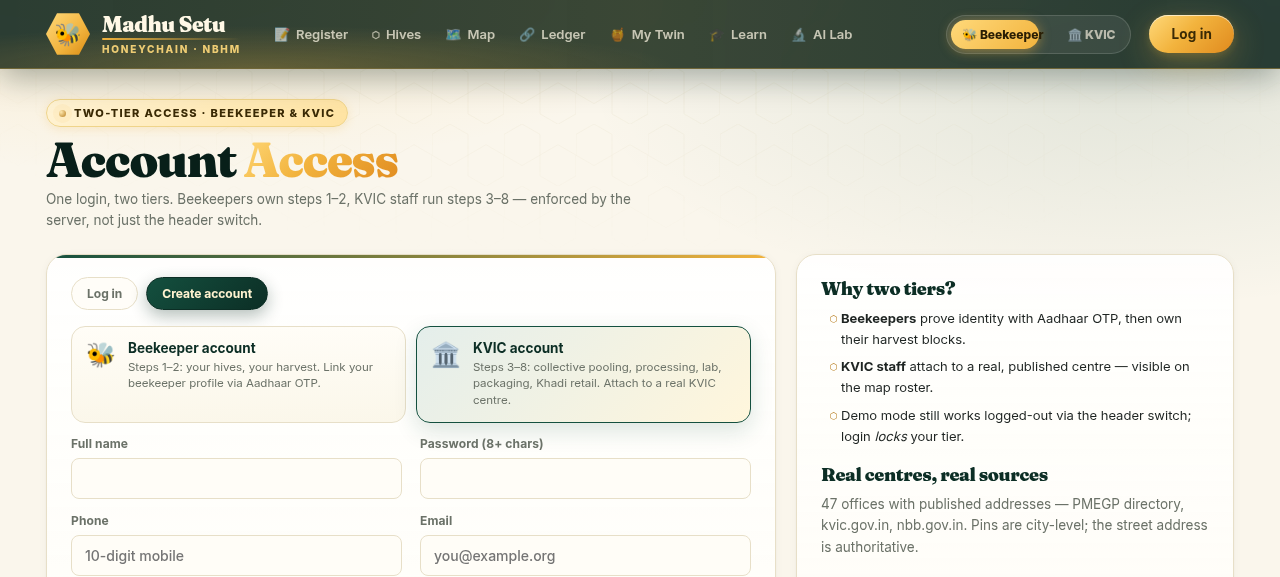
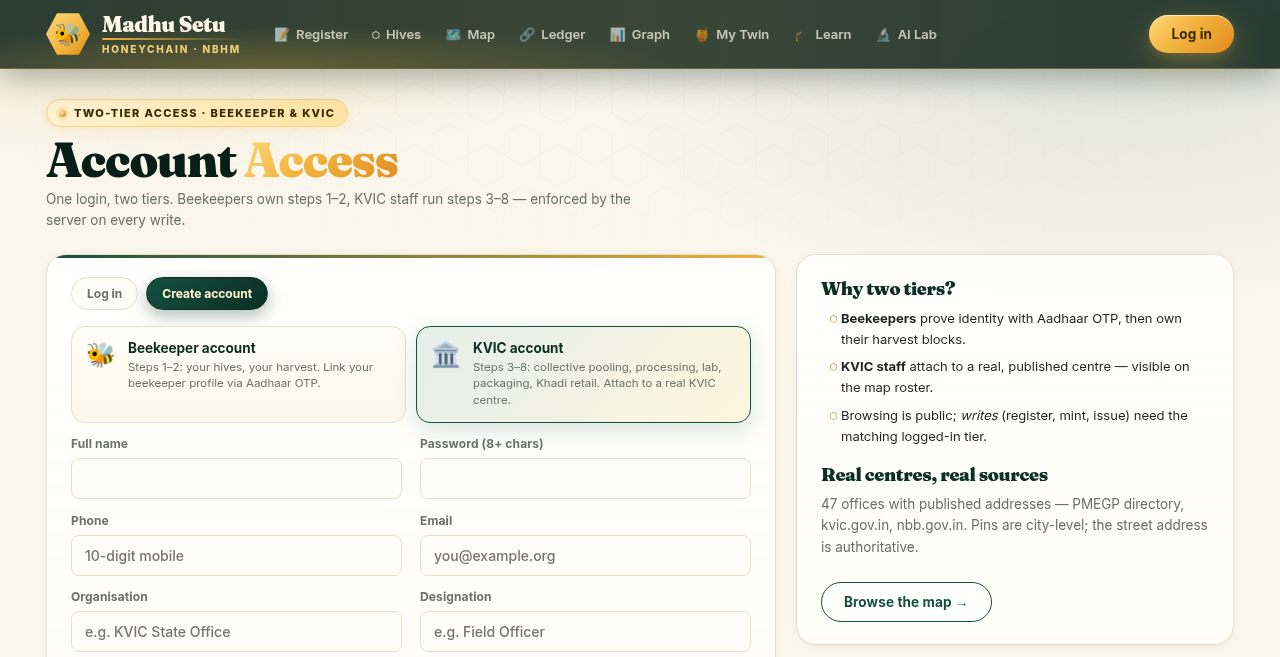
Order fixed, added graphs, two tier login

diff --git a/beehive-monitor/backend/controllers/blockchainController.js b/beehive-monitor/backend/controllers/blockchainController.js
@@ -10,13 +10,13 @@ const STAGE_META = {
   beekeeper_registration: { label: "Beekeeper Registration", step: 1, desc: "Beekeeper enrolled — record pinned (Pinata / Mongo) and appended", icon: "🐝" },
   honey_extraction:        { label: "Honey Extraction", step: 2, desc: "Farmer harvests honey — hive, weight, flower source", icon: "🍯" },
   collection:             { label: "Collection Phase 1", step: 3, desc: "Collector, quantity, flower type, destination lab / smart van", icon: "🤝" },
-  pooled:                 { label: "Collective Pool", step: 2, desc: "Optional many-farmer collection lot", icon: "🔗" },
-  transport:              { label: "Transport", step: 3, desc: "Truck to processing plant", icon: "🚚" },
-  processing:             { label: "Processing & QC", step: 4, desc: "Filtered / clarified / pasteurized + QA tester scans prev QR", icon: "🧪" },
-  lab_certified:          { label: "Lab Report", step: 4, desc: "KVIC / lab form + moisture/purity — QR appended", icon: "🔬" },
-  packaging:              { label: "Packaging", step: 5, desc: "Khadi village institutions print & stick jar QR (public key)", icon: "🏷" },
-  distribution:           { label: "Distribution", step: 6, desc: "Which lot went to which Khadi / KVIC store", icon: "📦" },
-  retail:                 { label: "Retail sale", step: 7, desc: "Bill issues one-time private key; chain freezes", icon: "🏪" },
+  pooled:                 { label: "Collective Pool", step: 3, desc: "Optional many-farmer collection lot", icon: "🔗" },
+  transport:              { label: "Transport", step: 4, desc: "Truck to processing plant", icon: "🚚" },
+  processing:             { label: "Processing & QC", step: 5, desc: "Filtered / clarified / pasteurized + QA tester scans prev QR", icon: "🧪" },
+  lab_certified:          { label: "Lab Report", step: 5, desc: "KVIC / lab form + moisture/purity — QR appended", icon: "🔬" },
+  packaging:              { label: "Packaging", step: 6, desc: "Khadi village institutions print & stick jar QR (public key)", icon: "🏷" },
+  distribution:           { label: "Distribution", step: 7, desc: "Which lot went to which Khadi / KVIC store", icon: "📦" },
+  retail:                 { label: "Retail sale", step: 8, desc: "Bill issues one-time private key; chain freezes", icon: "🏪" },
 };
 
 function stageMeta(stage) {

diff --git a/beehive-monitor/frontend/src/pages/Register.jsx b/beehive-monitor/frontend/src/pages/Register.jsx
@@ -332,9 +332,6 @@ export default function Register() {
             <div className="form-footer">
               {status === "success" && <span className="form-msg success">Registered successfully.</span>}
               {status === "error" && <span className="form-msg error">{errorMsg}</span>}
-              {!user && status !== "saving" && (
-                <Link className="btn btn-honey" to="/account">Log in / create account to submit</Link>
-              )}
               <button type="submit" className="btn btn-primary" disabled={status === "saving"}>
                 {status === "saving" ? "Saving..." : "Submit Registration"}
               </button>
@@ -367,7 +364,7 @@ export default function Register() {
                     </div>
                     <pre className="payload-pre" style={{ marginTop: 12 }}>{JSON.stringify(genesis.data || {}, null, 2)}</pre>
                     <div className="genesis-actions">
-                      <Link className="btn btn-primary" to={`/verify/${genesis.hash}?s=${genesis.scan_secret}`}>Verify genesis</Link>
+                      <Link className="btn btn-primary" to={`/verify/${genesis.hash}?s=${encodeURIComponent(genesis.scan_secret || "")}`}>Verify genesis</Link>
                       <Link className="btn btn-outline" to="/ledger">Open ledger</Link>
                       <Link className="btn btn-outline" to={`/twin?id=${genesis.hash}`}>Track my twin →</Link>
                     </div>
@@ -375,7 +372,7 @@ export default function Register() {
                   </div>
                   <div className="genesis-qr">
                     <div className="qr-box">
-                      <QRCodeSVG value={`${window.location.origin}/verify/${genesis.hash}?s=${genesis.scan_secret}`} size={148} level="M" />
+                      <QRCodeSVG value={`${window.location.origin}/verify/${genesis.hash}?s=${encodeURIComponent(genesis.scan_secret || "")}`} size={148} level="M" />
                     </div>
                     <div className="qr-caption">Beekeeper QR — scan to create extraction / pooled batch</div>
                     <div className="genesis-flow">

diff --git a/beehive-monitor/frontend/src/pages/FarmerTwin.jsx b/beehive-monitor/frontend/src/pages/FarmerTwin.jsx
@@ -156,9 +156,9 @@ export default function FarmerTwin(){
               {current && (
                 <div className="twin-qr">
                   <div className="qr-box">
-                    <QRCodeSVG value={`${window.location.origin}/verify/${current.hash}?s=${current.scan_secret}`} size={110} />
+                    <QRCodeSVG value={`${window.location.origin}/verify/${current.hash}?s=${encodeURIComponent(current.scan_secret || "")}`} size={110} />
                   </div>
-                  <Link className="btn btn-outline" to={`/verify/${current.hash}?s=${current.scan_secret}`} style={{marginTop:8}}>Verify jar</Link>
+                  <Link className="btn btn-outline" to={`/verify/${current.hash}?s=${encodeURIComponent(current.scan_secret || "")}`} style={{marginTop:8}}>Verify jar</Link>
                 </div>
               )}
             </div>

diff --git a/beehive-monitor/backend/models/LedgerBlock.js b/beehive-monitor/backend/models/LedgerBlock.js
@@ -9,10 +9,10 @@ const STAGES = [
   "pooled",                 // 3-collapsed — collective batches N farmer blocks converge (DAG)
   "transport",              // 4 — truck to processing plant
   "processing",             // 5 — filtered/clarified/pasteurized + QA tester scans prev QR
+  "lab_certified",          // 5b — lab adds his block by scanning (CA, cert hash) — can interleave before retail
   "packaging",              // 6 — food-grade pack + label (FSSAI, batch no, nutrition)
   "distribution",           // 7 — marketing & distribution to outlets
   "retail",                 // 8 — Khadi India / outlet — freeze point
-  "lab_certified",          // 5b — lab adds his block by scanning (CA, cert hash) — can interleave before retail
 ];
 
 const LedgerBlockSchema = new mongoose.Schema(

diff --git a/beehive-monitor/backend/controllers/rtiController.js b/beehive-monitor/backend/controllers/rtiController.js
@@ -7,6 +7,13 @@ async function createRti(req, res) {
     const qid = (beekeeperId || hash || "").trim();
     if (!qid) return res.status(400).json({ success: false, error: "beekeeperId or genesis hash required" });
     if (!question) return res.status(400).json({ success: false, error: "question required" });
+    // Cap free text so one filing can't bloat the JSON store / DB.
+    if (String(question).length > 2000) {
+      return res.status(400).json({ success: false, error: "question is too long — keep it under 2000 characters." });
+    }
+    if (subject && String(subject).length > 200) {
+      return res.status(400).json({ success: false, error: "subject is too long — keep it under 200 characters." });
+    }
 
     req.params = { ...(req.params || {}), id: qid };
     const fakeRes = {

diff --git a/beehive-monitor/backend/middleware/auth.js b/beehive-monitor/backend/middleware/auth.js
@@ -1,5 +1,7 @@
-// Two tier auth: beekeeper vs kvic
-// Determined from header x-role (beekeeper | kvic). No JWT for MVP — matches image institutions.
+// Two-tier auth: beekeeper vs kvic. Role comes ONLY from a verified login JWT
+// (authenticate/optionalAuth set req.authUser). The `x-role` header / `?role=`
+// query survive purely as a display hint for public reads and grant nothing —
+// every write route requires `authenticate`.
 // From Honey Workflow supporting institutions:
 // - BEEKEEPER tier: steps 1 Beekeeper Management + 2 Honey Extraction (owns hive, harvest)
 // - KVIC tier: steps 3 Collection (Cooperative/NGO/Trader) + 4 Transport + 5 Processing & QC

diff --git a/beehive-monitor/frontend/src/pages/Verify.jsx b/beehive-monitor/frontend/src/pages/Verify.jsx
@@ -227,7 +227,7 @@ export default function Verify() {
 
               <div className="verify-qr">
                 <div className="qr-box">
-                  <QRCodeSVG value={`${window.location.origin}/verify/${block.hash}${block.scan_secret ? `?s=${block.scan_secret}` : token ? `?s=${token}` : ""}`} size={130} />
+                  <QRCodeSVG value={`${window.location.origin}/verify/${block.hash}${block.scan_secret ? `?s=${encodeURIComponent(block.scan_secret)}` : token ? `?s=${encodeURIComponent(token)}` : ""}`} size={130} />
                 </div>
                 <div className="qr-caption">Present this QR at next hop to append</div>
               </div>

diff --git a/beehive-monitor/frontend/src/App.jsx b/beehive-monitor/frontend/src/App.jsx
@@ -22,7 +22,8 @@ export default function App() {
           <Route path="/learn" element={<Learn />} />
           <Route path="/diagnose" element={<DiseaseDetection />} />
           <Route path="/ledger" element={<Ledger />} />
-          <Route path="/graph" element={<Graph />} />          <Route path="/verify/:hash" element={<Verify />} />
+          <Route path="/graph" element={<Graph />} />
+          <Route path="/verify/:hash" element={<Verify />} />
           <Route path="/verify" element={<Verify />} />
           <Route path="/twin" element={<FarmerTwin />} />
           <Route path="/track" element={<FarmerTwin />} />

diff --git a/beehive-monitor/frontend/src/pages/LedgerGraph.jsx b/beehive-monitor/frontend/src/pages/LedgerGraph.jsx
@@ -108,7 +108,7 @@ export default function LedgerGraph({ blocks = [], selected = null, onSelect = n
         <div>
           <div className="graph-title">{title}</div>
           <div className="graph-sub">
-            {blocks.length} block{blocks.length === 1 ? "" : "s"} · columns are workflow stages 1 → 8 ·
+            {blocks.length} block{blocks.length === 1 ? "" : "s"} · one column per stage, left (hive) to right (Khadi shelf) ·
             converging lines are collective pools · <span className="graph-frozen-key">red = frozen at retail</span>
           </div>
         </div>

diff --git a/beehive-monitor/frontend/src/pages/Account.jsx b/beehive-monitor/frontend/src/pages/Account.jsx
@@ -172,7 +172,7 @@ export default function Account() {
                 <h3>Assigned centre</h3>
                 {centre ? (
                   <div className="account-linked">
-                    ✓ {centre.name} <span className="small-muted">· {centre.city}, {centre.state}</span>
+                    ✓ {centre.name} <span className="small-muted">· {centre.city}, {centre.state}</span>{" "}
                     {!user.centreVerified && <span className="badge">self-asserted</span>}
                   </div>
                 ) : (

diff --git a/beehive-monitor/backend/routes/rtiRoutes.js b/beehive-monitor/backend/routes/rtiRoutes.js
@@ -1,8 +1,12 @@
 const express = require("express");
 const router = express.Router();
 const { createRti, listRti } = require("../controllers/rtiController");
+const { rateLimit } = require("../utils/rateLimit");
 
-router.post("/", createRti);
+// Filing writes to the store — throttle per IP so it can't be spammed into a DoS.
+const fileLimiter = rateLimit({ windowMs: 10 * 60 * 1000, max: 20 });
+
+router.post("/", fileLimiter, createRti);
 router.get("/", listRti);
 
 module.exports = router;
